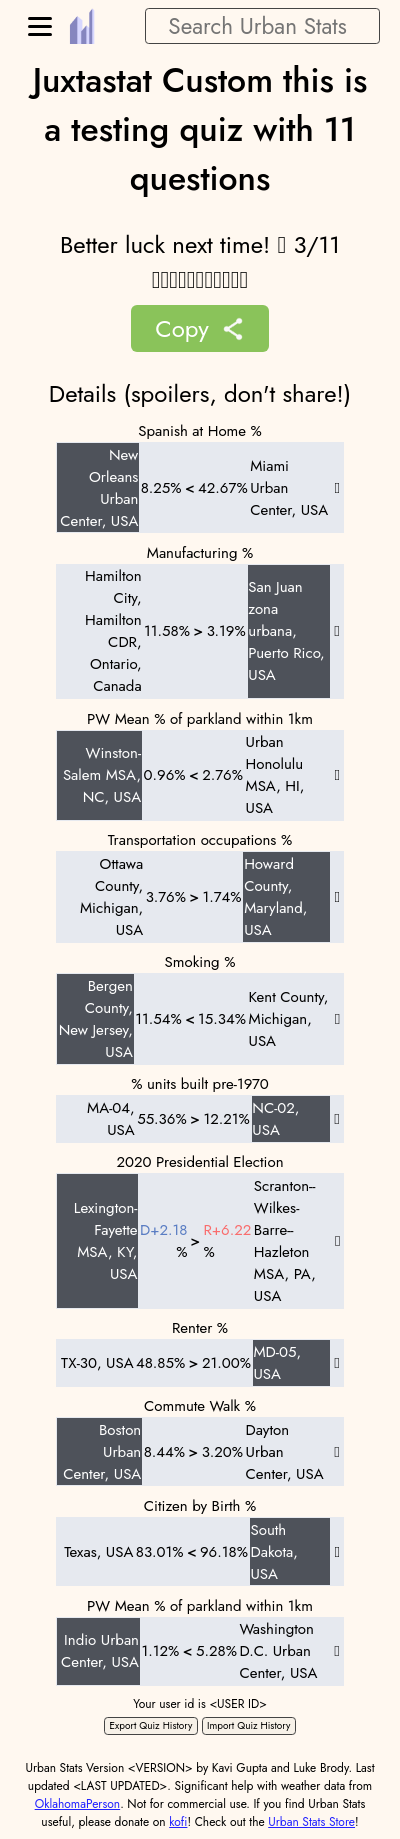
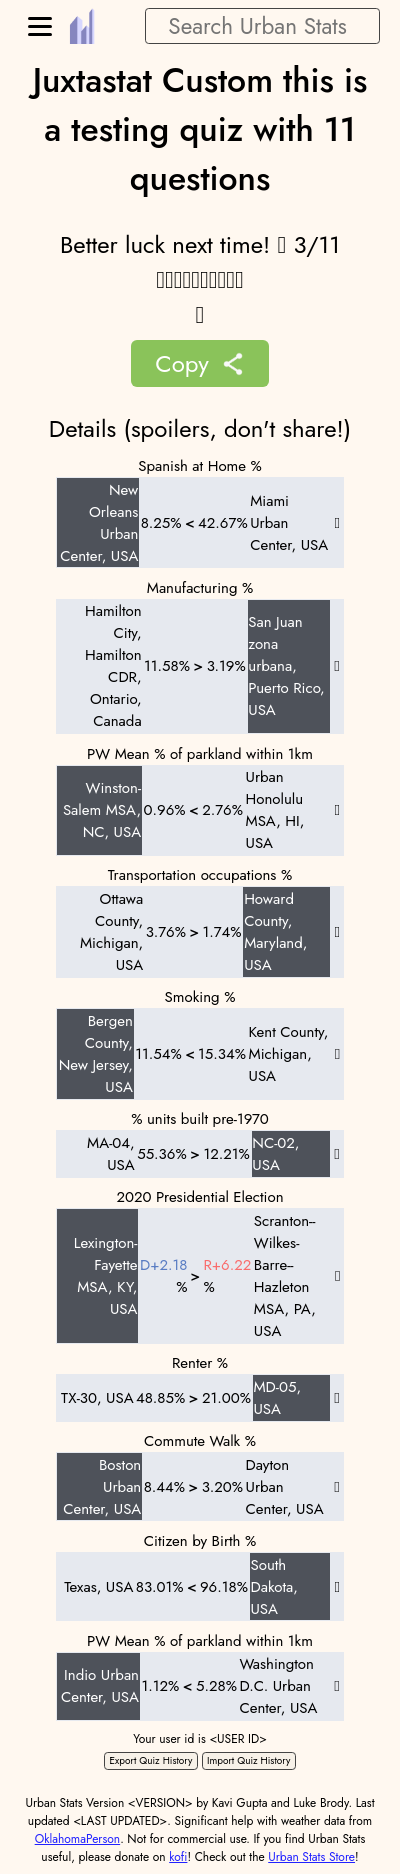
multi-line for longer emoji sequences (#892)

diff --git a/react/src/quiz/quiz-result.tsx b/react/src/quiz/quiz-result.tsx
@@ -20,6 +20,8 @@ import { getCachedPerQuestionStats, getPerQuestionStats, PerQuestionStats, parse
 
 export type CorrectPattern = (boolean | 0 | 1)[]
 
+const maxPerLine = 10
+
 interface QuizResultProps {
     quizDescriptor: QuizDescriptor
     todayName?: string
@@ -374,7 +376,13 @@ export function Summary(props: { correctPattern: CorrectPattern, quizKind: QuizK
     return (
         <div>
             <span className="serif quiz_summary" id="quiz-result-summary-words">{show}</span>
-            <span className="serif quiz_summary" id="quiz-result-summary-emoji">{redAndGreenSquares(juxtaColors, props.correctPattern)}</span>
+            <div id="quiz-result-summary-emoji">
+                {
+                    redAndGreenSquares(juxtaColors, props.correctPattern).map((line, index) => (
+                        <div className="serif quiz_summary" key={index}>{line}</div>
+                    ))
+                }
+            </div>
         </div>
     )
 }
@@ -391,7 +399,7 @@ export async function summary(juxtaColors: JuxtastatColors, todayName: string | 
     text += '\n'
     text += '\n'
 
-    text += redAndGreenSquares(juxtaColors, correctPattern)
+    text += redAndGreenSquares(juxtaColors, correctPattern).join('\n')
 
     text += '\n'
 
@@ -605,9 +613,18 @@ function settingsOverrides(questionStatPath?: StatPath): Partial<VectorSettingsD
     ])
 }
 
-export function redAndGreenSquares(juxtaColors: JuxtastatColors, correctPattern: CorrectPattern): string {
-    return correctPattern.map(function (x) {
-        // red square emoji for wrong, green for right
-        return x ? juxtaColors.correctEmoji : juxtaColors.incorrectEmoji
-    }).join('')
+export function redAndGreenSquares(juxtaColors: JuxtastatColors, correctPattern: CorrectPattern): string[] {
+    if (correctPattern.length > maxPerLine) {
+        const lines = []
+        for (let i = 0; i < correctPattern.length; i += maxPerLine) {
+            lines.push(redAndGreenSquares(juxtaColors, correctPattern.slice(i, i + maxPerLine))[0])
+        }
+        return lines
+    }
+    return [
+        correctPattern.map(function (x) {
+            // red square emoji for wrong, green for right
+            return x ? juxtaColors.correctEmoji : juxtaColors.incorrectEmoji
+        }).join(''),
+    ]
 }

diff --git a/react/test/quiz_infinite_test.ts b/react/test/quiz_infinite_test.ts
@@ -24,6 +24,10 @@ async function correctIncorrect(t: TestController): Promise<boolean[]> {
         else if (c === '🟥') {
             result.push(false)
         }
+        // ' ', '\n', etc are ignored
+        else if (/\s/.exec(c)) {
+            continue
+        }
         else {
             throw new Error(`unexpected character ${c} in ${text}`)
         }
@@ -149,7 +153,9 @@ test('19-correct', async (t) => {
     await t.expect(lines).eql([
         'Juxtastat Infinite 20/∞',
         '',
-        '🟩🟩🟩🟩🟩🟩🟩🟩🟩🟩🟩🟩🟩🟩🟩🟩🟩🟩🟩🟩🟥🟥🟥🟥🟥🟥🟥',
+        '🟩🟩🟩🟩🟩🟩🟩🟩🟩🟩',
+        '🟩🟩🟩🟩🟩🟩🟩🟩🟩🟩',
+        '🟥🟥🟥🟥🟥🟥🟥',
         '',
         `https://juxtastat.org/${param}`,
     ])

diff --git a/react/test/quiz_test_template.ts b/react/test/quiz_test_template.ts
@@ -995,6 +995,6 @@ export function quizTest({ platform }: { platform: 'desktop' | 'mobile' }): void
         await clickButtons(t, ['a'])
         await screencap(t)
         await t.expect(Selector('#quiz-result-summary-words').innerText).eql('Better luck next time! 🫤 3/11')
-        await t.expect(Selector('#quiz-result-summary-emoji').innerText).eql('🟥🟥🟥🟥🟥🟥🟩🟥🟩🟩🟥')
+        await t.expect(Selector('#quiz-result-summary-emoji').innerText).eql('🟥🟥🟥🟥🟥🟥🟩🟥🟩🟩\n🟥')
     })
 }
